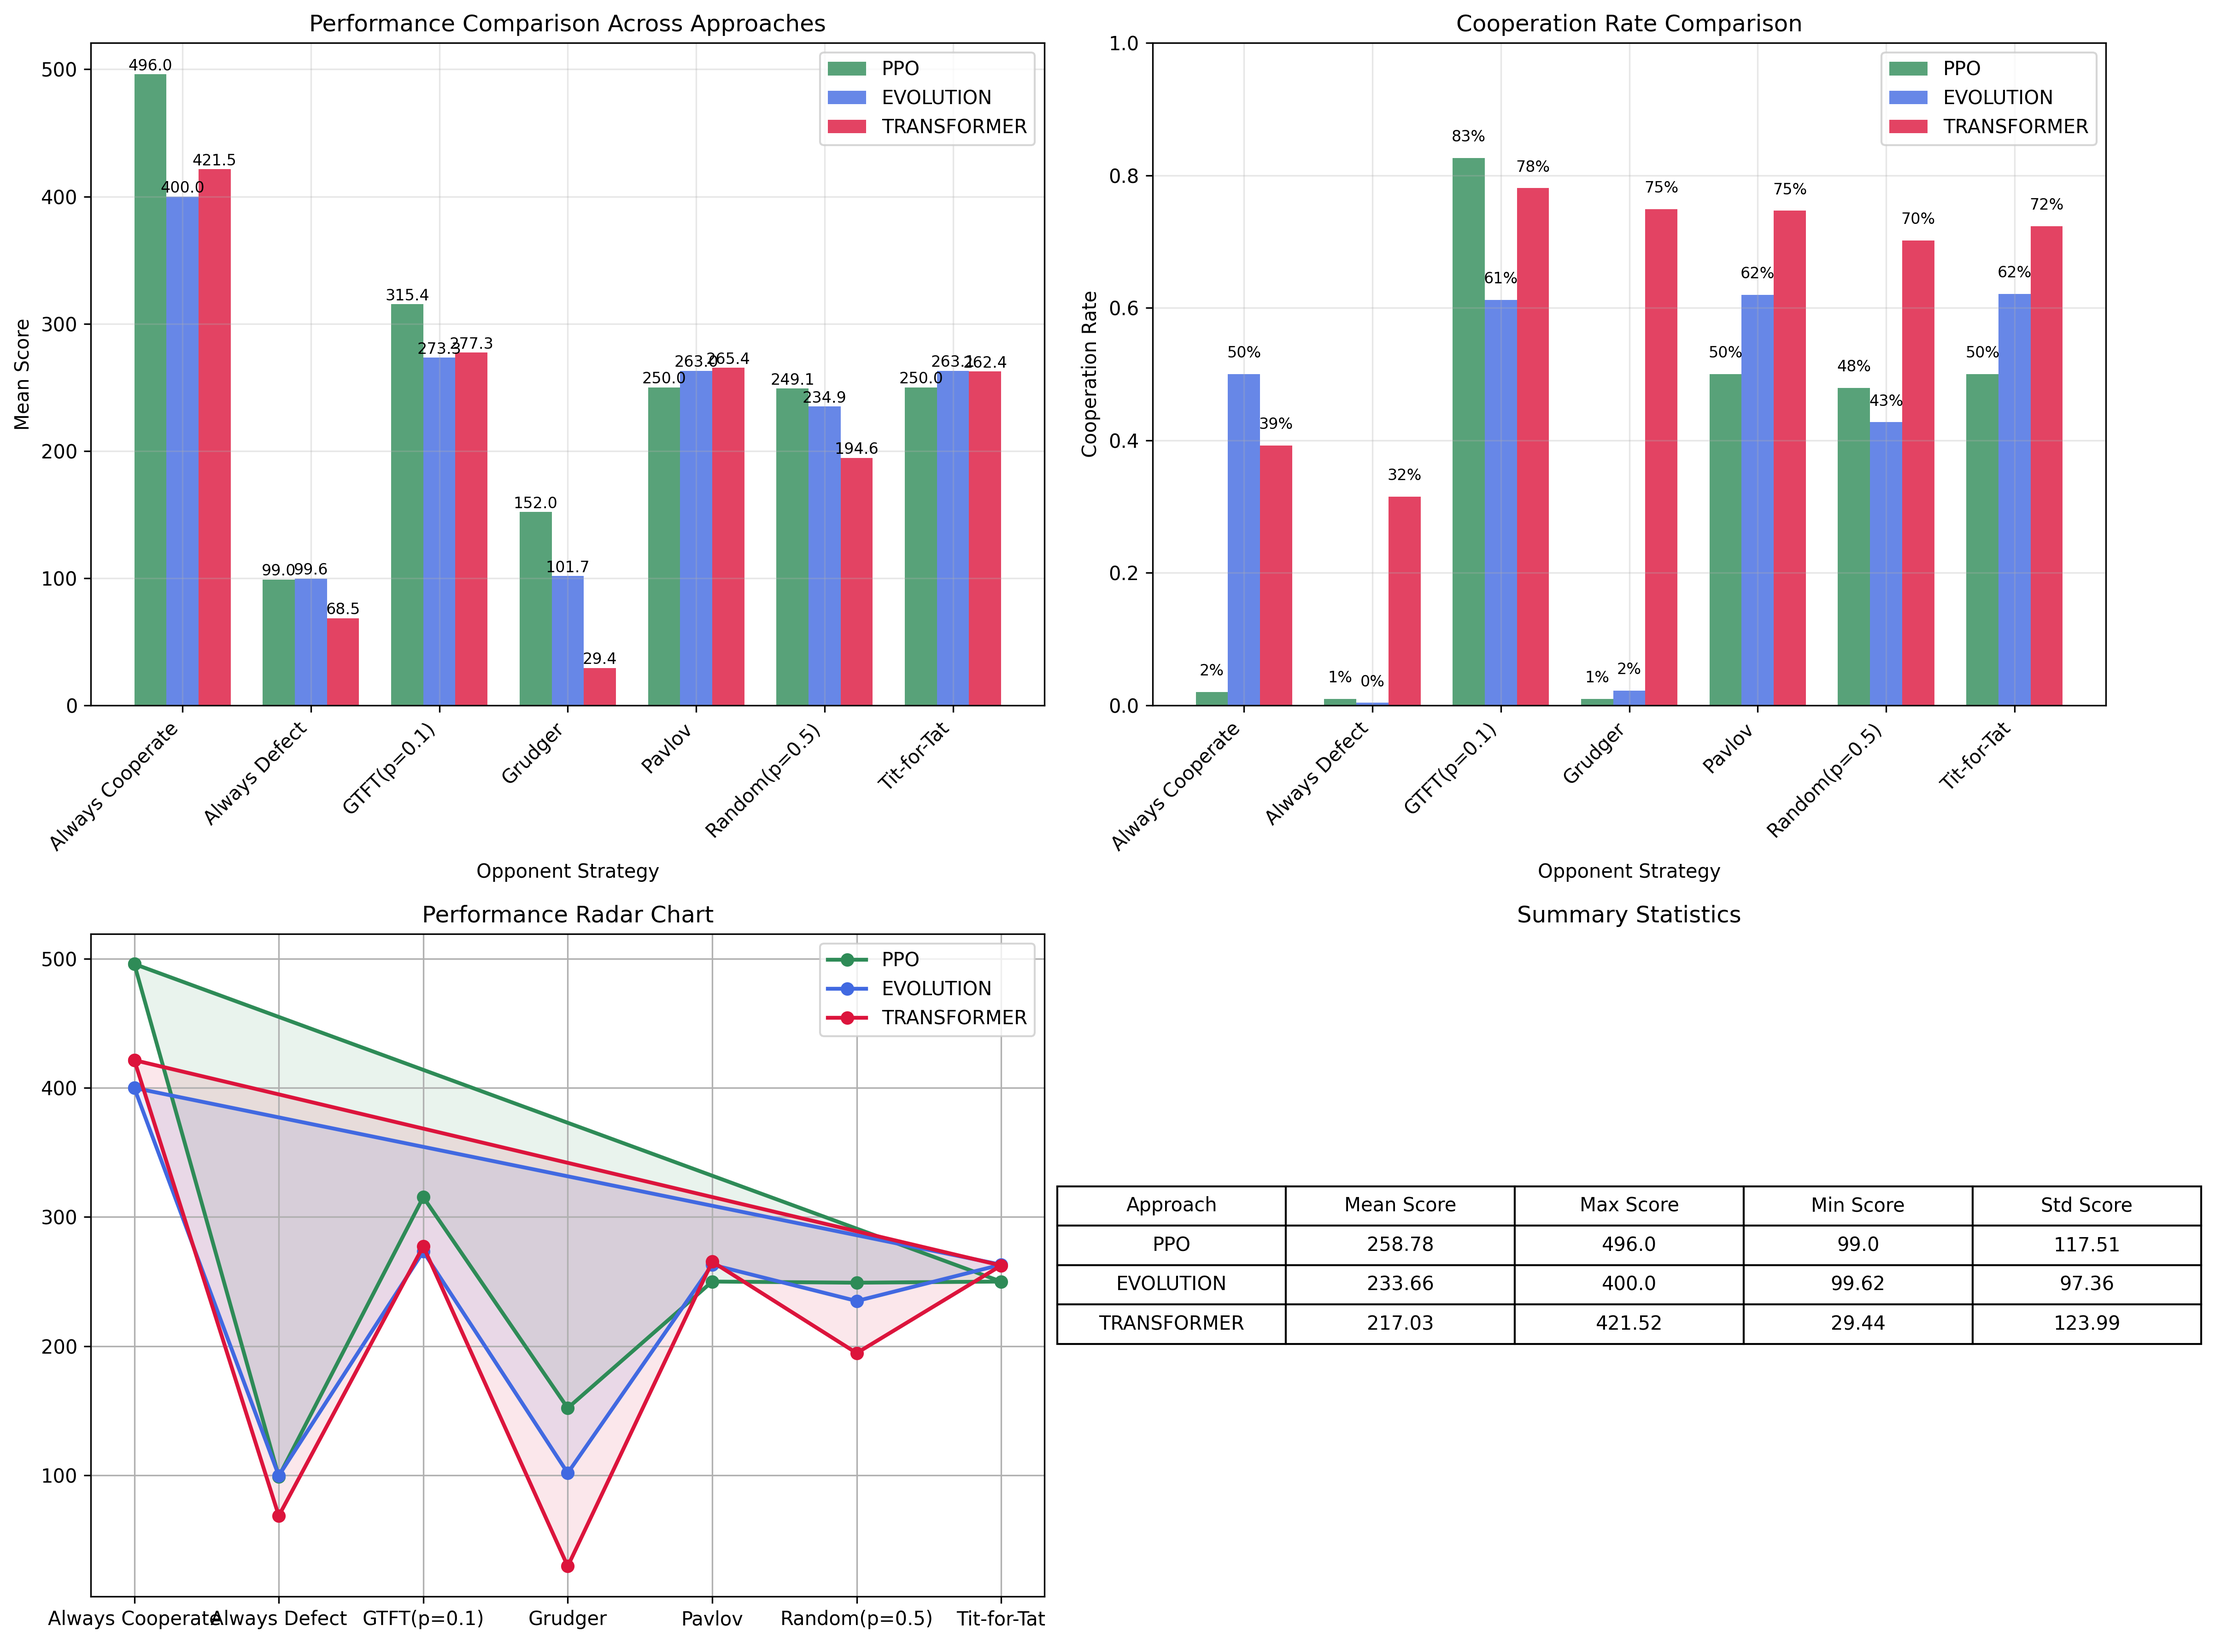
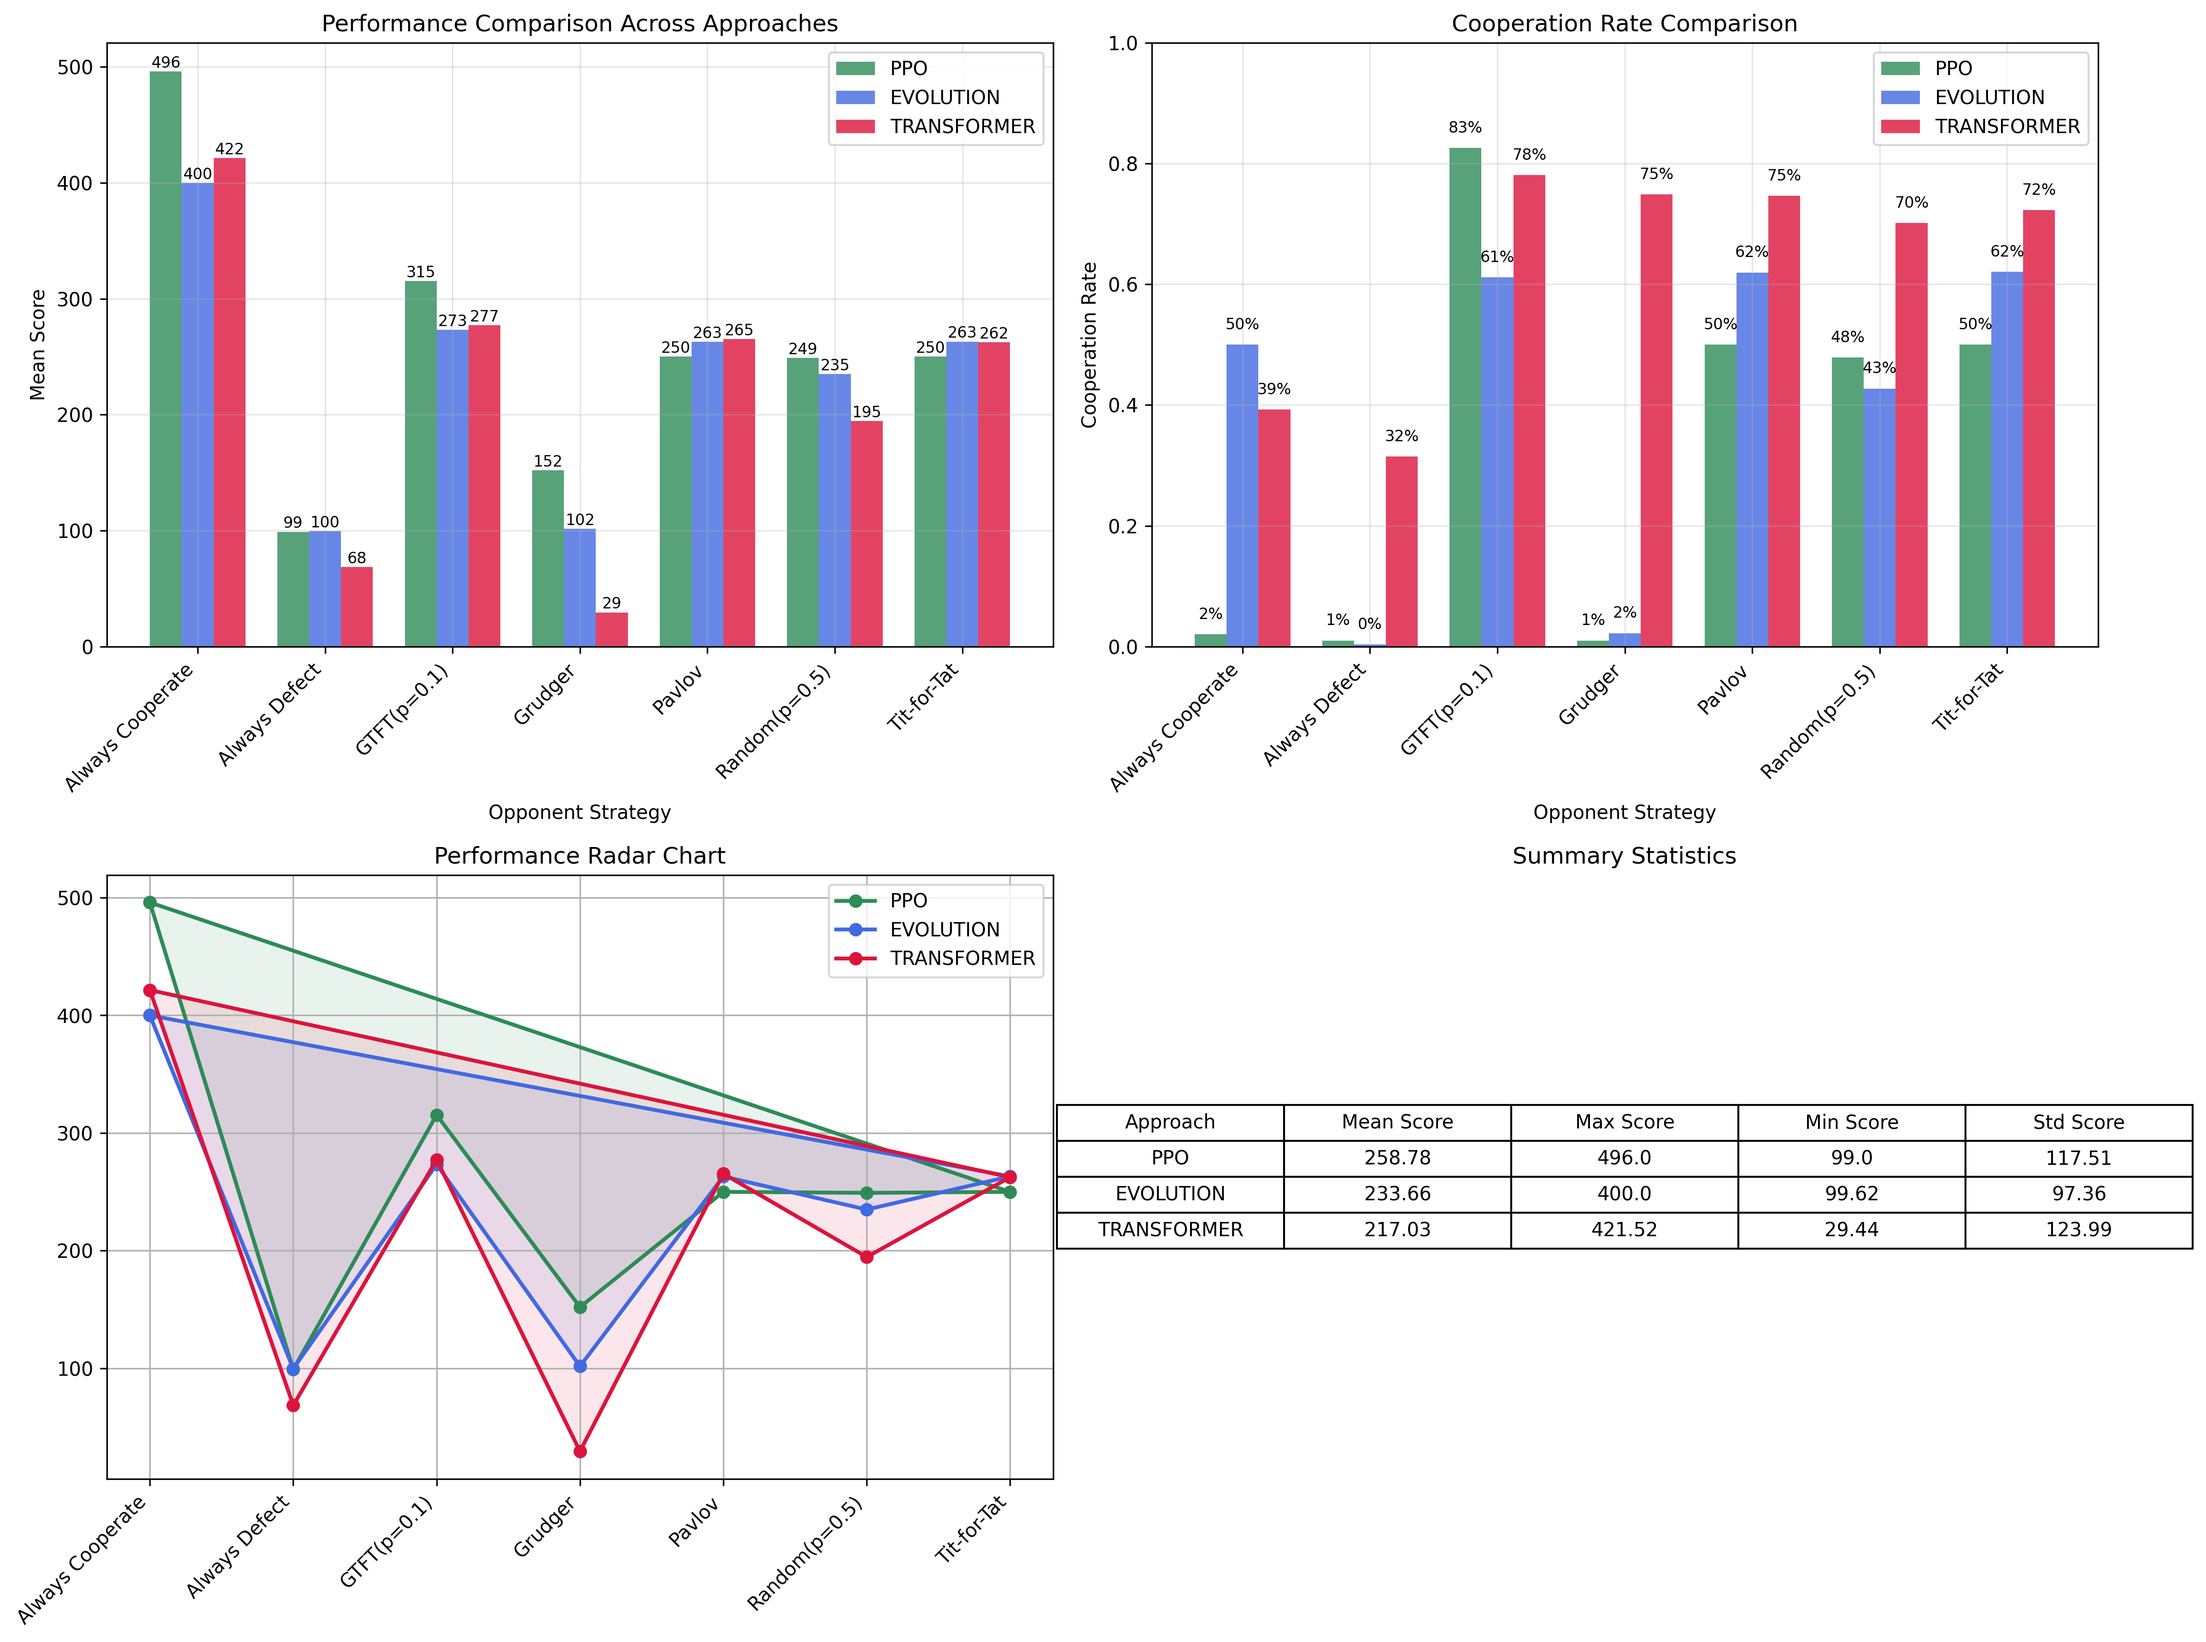
Update comparison plots and evaluation results: format score display and adjust x-tick labels for better readability

diff --git a/compare_approaches.py b/compare_approaches.py
@@ -246,7 +246,7 @@ def create_comparison_plots(results: Dict, output_dir: str) -> None:
             if score > 0:
                 height = bar.get_height()
                 ax1.text(bar.get_x() + bar.get_width()/2., height + 0.5,
-                        f'{score:.1f}', ha='center', va='bottom', fontsize=8)
+                        f'{score:.0f}', ha='center', va='bottom', fontsize=8)
     
     ax1.set_xlabel('Opponent Strategy')
     ax1.set_ylabel('Mean Score')
@@ -290,7 +290,7 @@ def create_comparison_plots(results: Dict, output_dir: str) -> None:
             ax3.fill(angles, values, alpha=0.1, color=colors[i % len(colors)])
         
         ax3.set_xticks(angles[:-1])
-        ax3.set_xticklabels(strategies)
+        ax3.set_xticklabels(strategies, rotation=45, ha='right')
         ax3.set_title('Performance Radar Chart')
         ax3.legend()
         ax3.grid(True)

diff --git a/agents/ppo/train_ppo.py b/agents/ppo/train_ppo.py
@@ -488,7 +488,7 @@ def plot_evaluation_results(results: Dict, log_dir: str):
     fig, ((ax1, ax2), (ax3, ax4)) = plt.subplots(2, 2, figsize=(15, 12))
     
     # Rewards plot
-    bars1 = ax1.bar(strategies, rewards, yerr=reward_stds, capsize=5, alpha=0.8, color='blue')
+    bars1 = ax1.bar(strategies, rewards, capsize=5, alpha=0.8, color='blue')
     ax1.set_ylabel('Mean Reward')
     ax1.set_title('PPO: Performance vs Different Opponents')
     ax1.tick_params(axis='x', rotation=45)
